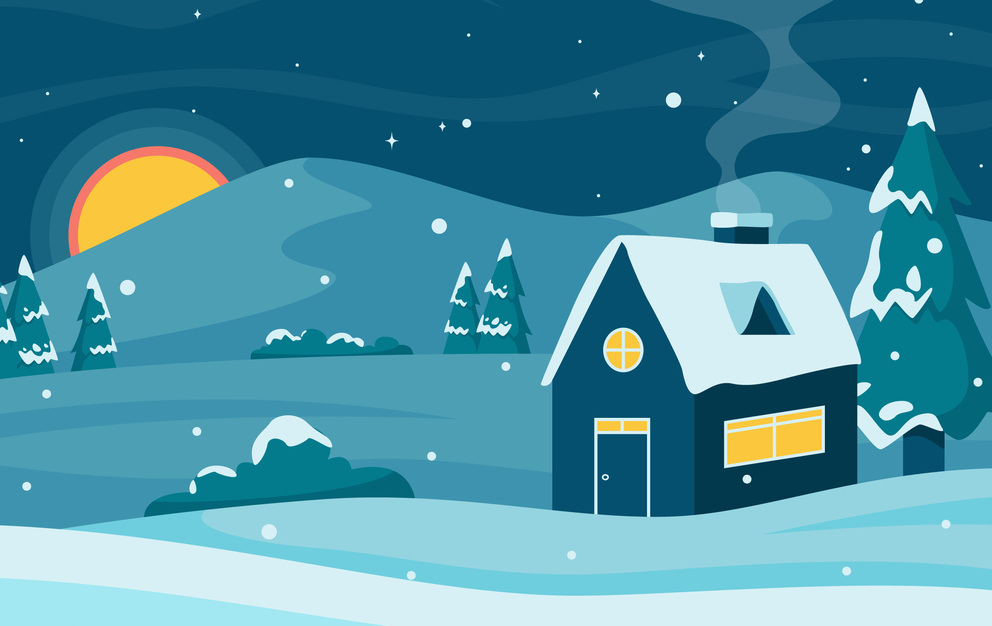
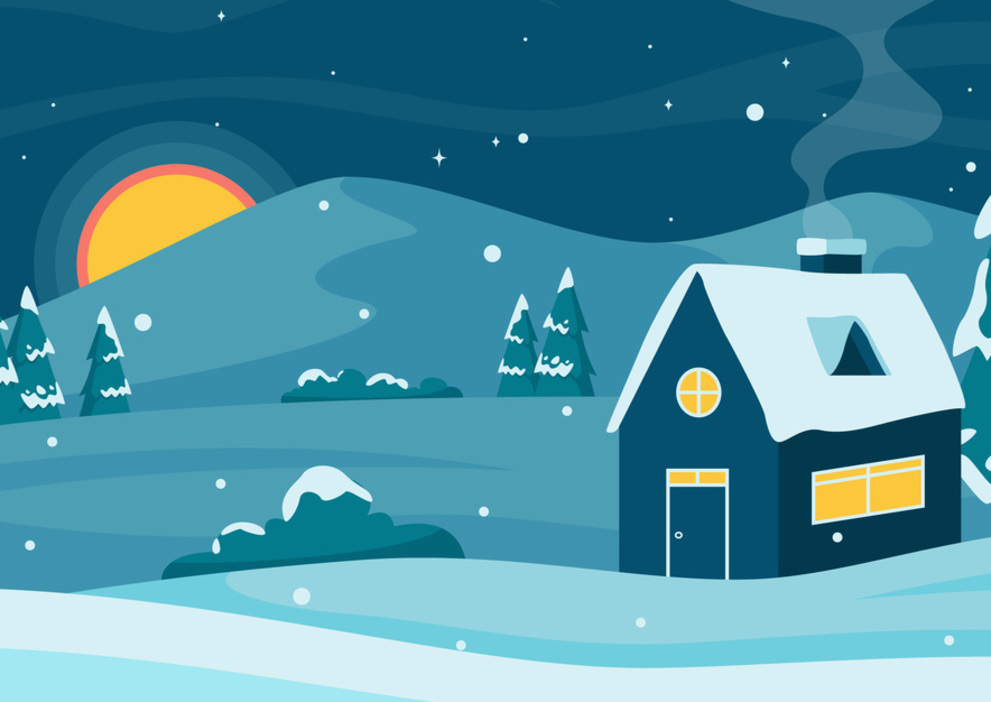
some styling of app name

diff --git a/index.html b/index.html
@@ -4,8 +4,15 @@
     <meta charset="UTF-8" />
     <meta http-equiv="X-UA-Compatible" content="IE=edge" />
     <meta name="viewport" content="width=device-width, initial-scale=1.0" />
-    <title>Weather App</title>
+    <title>WeatherU</title>
     <link rel="shortcut icon" href="img/app-icon.png" type="image/png" />
+
+    <link rel="preconnect" href="https://fonts.googleapis.com" />
+    <link rel="preconnect" href="https://fonts.gstatic.com" crossorigin />
+    <link
+      href="https://fonts.googleapis.com/css2?family=Raleway:ital,wght@0,100;0,200;0,300;0,400;0,500;0,600;0,700;0,800;0,900;1,100;1,200;1,300;1,400;1,500;1,600;1,700;1,800;1,900&display=swap"
+      rel="stylesheet"
+    />
 
     <!-- <link rel="stylesheet" href="css/normalize.css" /> -->
     <link
@@ -20,37 +27,46 @@
     <div class="background">
       <picture class="background__picture">
         <source
-          srcset="./img/summer-xs.jpg"
+          srcset="./img/winter-xs.jpg"
           media="(max-width: 425px)"
           type="image/jpg"
         />
         <source
-          srcset="./img/summer-sm.jpg"
+          srcset="./img/winter-sm.jpg"
           media="(max-width: 576px)"
           type="image/jpg"
         />
         <source
-          srcset="./img/summer-md.jpg"
+          srcset="./img/winter-md.jpg"
           media="(max-width: 768px)"
           type="image/jpg"
         />
         <source
-          srcset="./img/summer-lg.jpg"
+          srcset="./img/winter-lg.jpg"
           media="(max-width: 992px)"
           type="image/jpg"
         />
         <source
-          srcset="./img/summer-xl.jpg"
+          srcset="./img/winter-xl.jpg"
           media="(max-width: 1200px)"
           type="image/jpg"
         />
-        <img class="background__img" src="img/summer.jpg" alt="Autumn" />
+        <img class="background__img" src="img/winter.jpg" alt="Autumn" />
       </picture>
     </div>
     <main>
       <div class="col-xl-4 col-lg-5 col-md-6 col-sm-12 main__weather">
-        <div class="container d-flex">
-          <div class="main__weather-app-name d-flex flex-row"></div>
+        <div class="container d-flex flex-column p-3">
+          <div class="main__weather-app-name d-flex flex-row justify-content-center">
+            <img
+              src="img/cloud-sun-icon.png"
+              alt="App icon"
+              class="main__img-icon"
+            />
+            <p class="main__app-name">
+              Weather<span class="main__app-name--span">you</span>
+            </p>
+          </div>
         </div>
       </div>
       <div class="col-xl-8 col-lg-7 col-md-6 col-sm-12 side__weather">

diff --git a/scss/modules/_main-weather.scss b/scss/modules/_main-weather.scss
@@ -1,7 +1,36 @@
-.main__weather {
-  position: relative;
-  z-index: 2;
-  height: 100vh;
-  background-color: $white-grey-lt;
-  backdrop-filter: blur(6px);
+.main {
+  &__weather {
+    position: relative;
+    z-index: 2;
+    height: 100vh;
+    background-color: $white-grey-lt;
+    backdrop-filter: blur(6px);
+  }
+
+  &__img-icon {
+    width: 70px;
+    height: 70px;
+    @include shadow;
+  }
+
+  &__app-name {
+    font-family: Raleway, monospace;
+    font-weight: 700;
+    font-size: 36px;
+    margin: 0;
+    text-align: center;
+    vertical-align: middle;
+    padding: 16px 0.5rem 0;
+    text-shadow: -1.3px 1.3px 0.5px rgba(0, 0, 0, 0.15);
+
+    &--span {
+      text-transform: uppercase;
+      display: inline-block;
+      font-weight: 900;
+      color: $yellow;
+      transition: all 200ms ease-in-out;
+    }
+
+    
+  }
 }

diff --git a/css/style.css b/css/style.css
@@ -1,6 +1,10 @@
 /*colors*/
 html {
-  overflow-x: hidden;
+  overflow: hidden;
+}
+
+body {
+  color: #f8f7f8;
 }
 
 .background {
@@ -37,4 +41,26 @@ html {
   height: 100vh;
   background-color: rgba(245, 245, 245, 0.5019607843);
   backdrop-filter: blur(6px);
+}
+.main__img-icon {
+  width: 70px;
+  height: 70px;
+  filter: drop-shadow(4px 4px 21px rgba(0, 0, 0, 0.2));
+}
+.main__app-name {
+  font-family: Raleway, monospace;
+  font-weight: 700;
+  font-size: 36px;
+  margin: 0;
+  text-align: center;
+  vertical-align: middle;
+  padding: 16px 0.5rem 0;
+  text-shadow: -1.3px 1.3px 0.5px rgba(0, 0, 0, 0.15);
+}
+.main__app-name--span {
+  text-transform: uppercase;
+  display: inline-block;
+  font-weight: 900;
+  color: rgb(255, 204, 50);
+  transition: all 200ms ease-in-out;
 }/*# sourceMappingURL=style.css.map */

diff --git a/scss/utils/_variables.scss b/scss/utils/_variables.scss
@@ -21,3 +21,6 @@ $black-md: #181818;
 $black: #191919;
 
 $white: #fff;
+
+$font-color: #f8f7f8;
+$yellow: rgb(255, 204, 50);

diff --git a/scss/utils/_reset.scss b/scss/utils/_reset.scss
@@ -1,3 +1,7 @@
 html {
-  overflow-x: hidden;
+  overflow: hidden;
+}
+
+body {
+  color: $font-color;
 }

diff --git a/scss/utils/_mixins.scss b/scss/utils/_mixins.scss
@@ -1,0 +1,3 @@
+@mixin shadow {
+  filter: drop-shadow(4px 4px 21px rgba(0, 0, 0, 0.2));
+}
